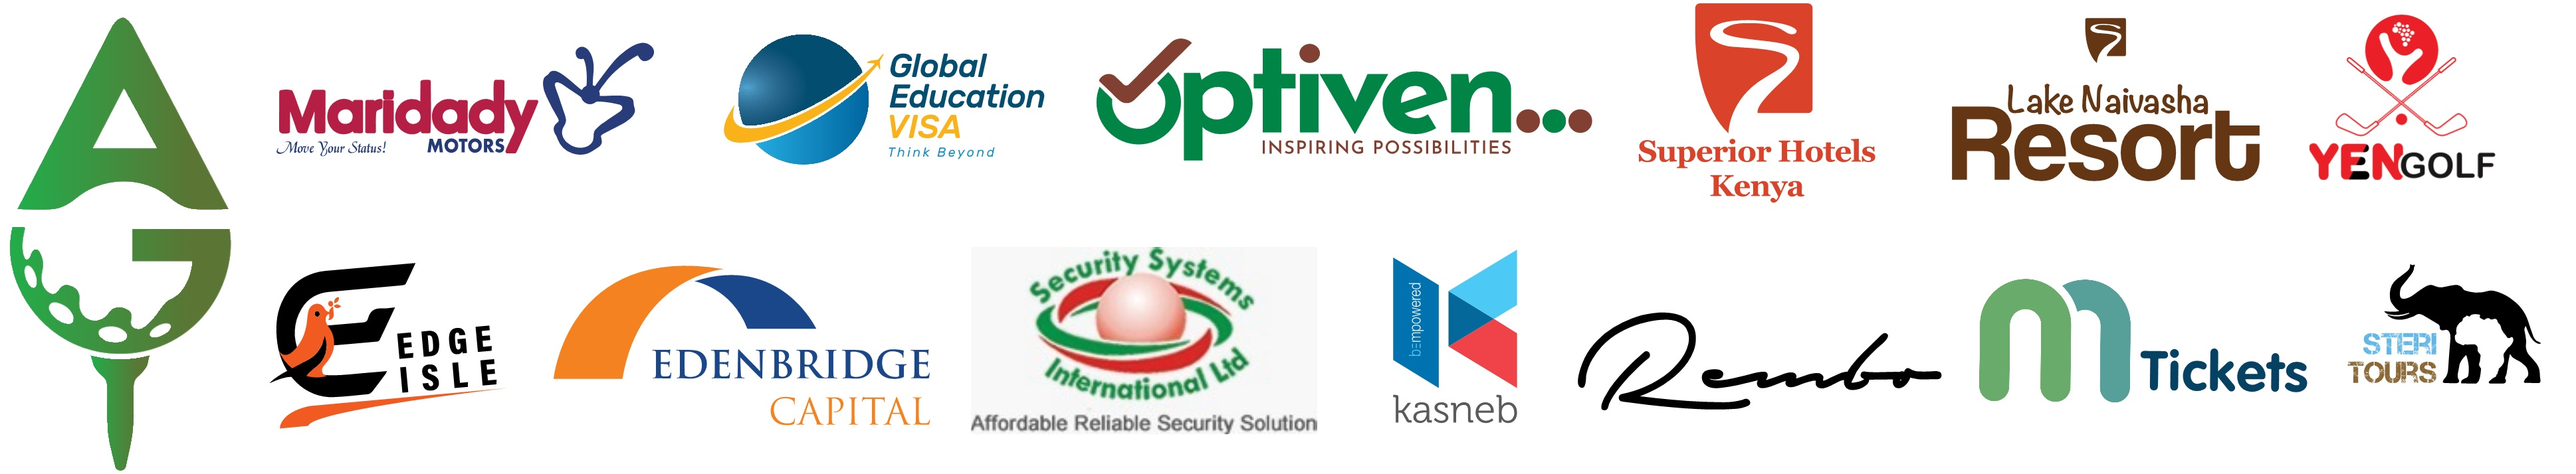
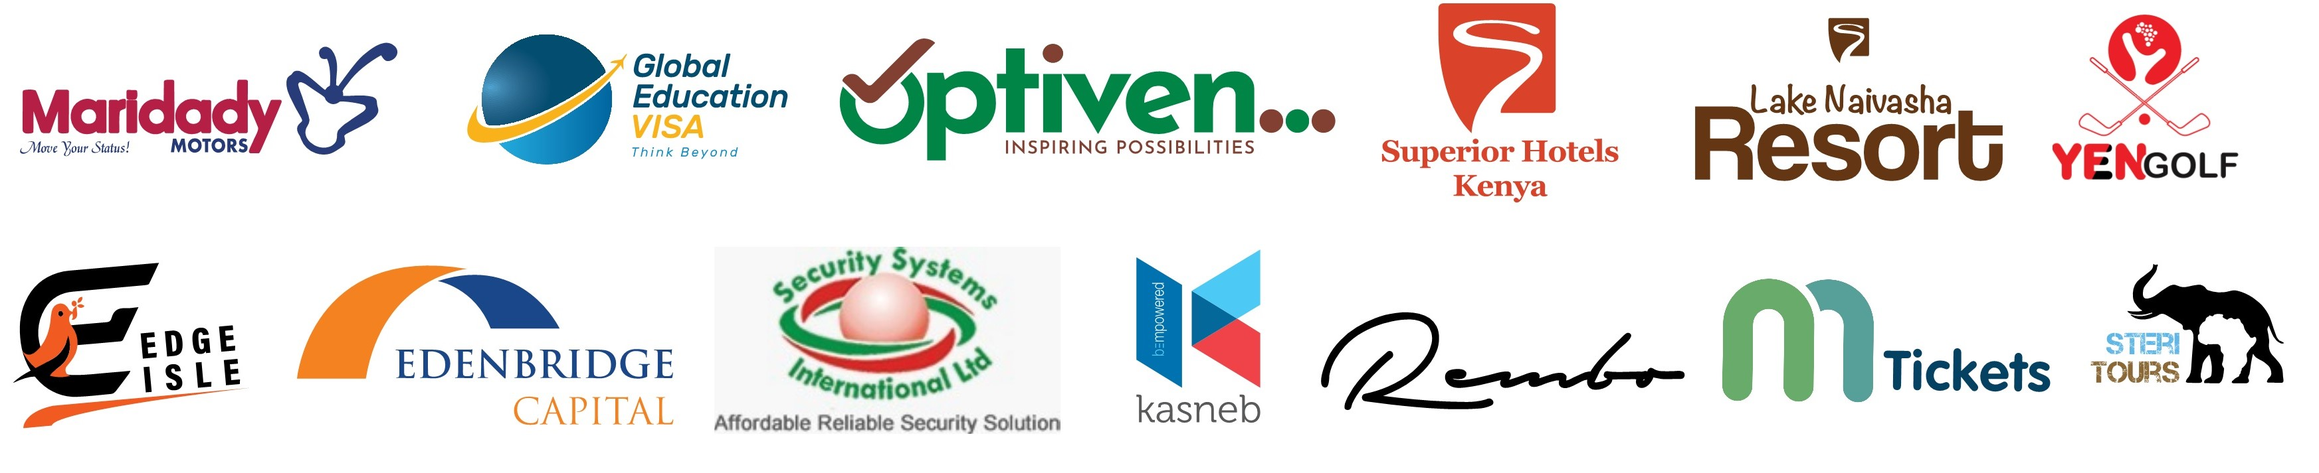
sponsors image shaping and positioning

Changed region(s): [[0.0, 0.0, 0.9994, 0.9874], [0.7808, 0.0309, 0.8433, 0.1234], [0.9682, 0.6171, 0.9994, 0.648]]

diff --git a/components/body/Partners.js b/components/body/Partners.js
@@ -10,7 +10,7 @@ export default function Partners(props) {
         className={styles.sponsorsPoster}
         src={sponsors}
         height={714}
-        width={3876}
+        width={3490}
         alt="Sponsors List"
       />
     </div>

diff --git a/pages/index.js b/pages/index.js
@@ -23,8 +23,8 @@ export default function Home() {
       <main>
         <About />
         <Gallery />
-        <Partners />
         <Organizer />
+        <Partners />
       </main>
 
       <footer>
